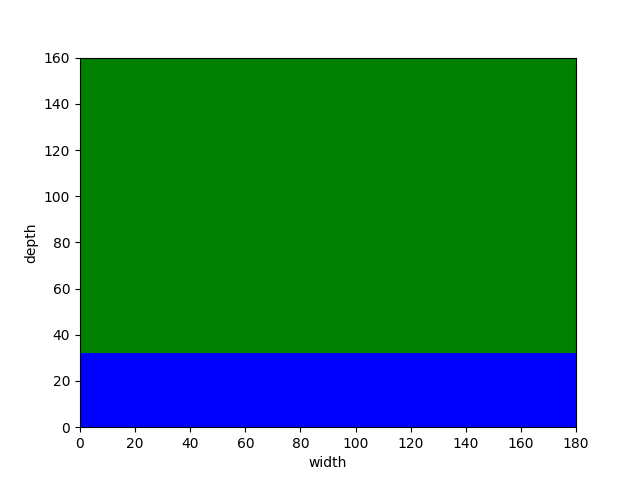
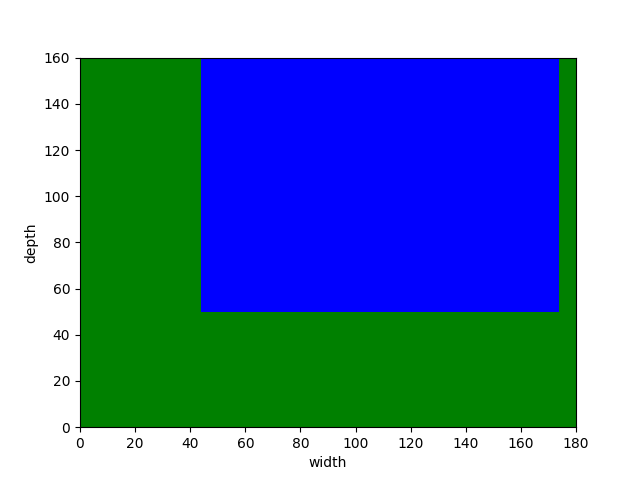
argv graph ophalen werkt weer

diff --git a/code/main.py b/code/main.py
@@ -18,7 +18,11 @@ if len(sys.argv) < 2:
     sys.exit(1)
 elif sys.argv[1] not in ["area_1", "area_2", "area_3"]:
     print("Choose between: area_1, area_2, area_3")
-    sys.exit(1)   
+    sys.exit(1) 
+else:
+    area = sys.argv[1]
+
+Graph(area) 
 
 # Request user for the number of houses
 total_houses = input("Enter the number of houses: ")
@@ -56,7 +60,8 @@ for maison in range(int(total_maisons)):
     print(maison.price)
 
 # sent house info to graph
-print(all_houses)
+
+
 
 # Writing output file
 with open('output.csv', 'w') as file:
